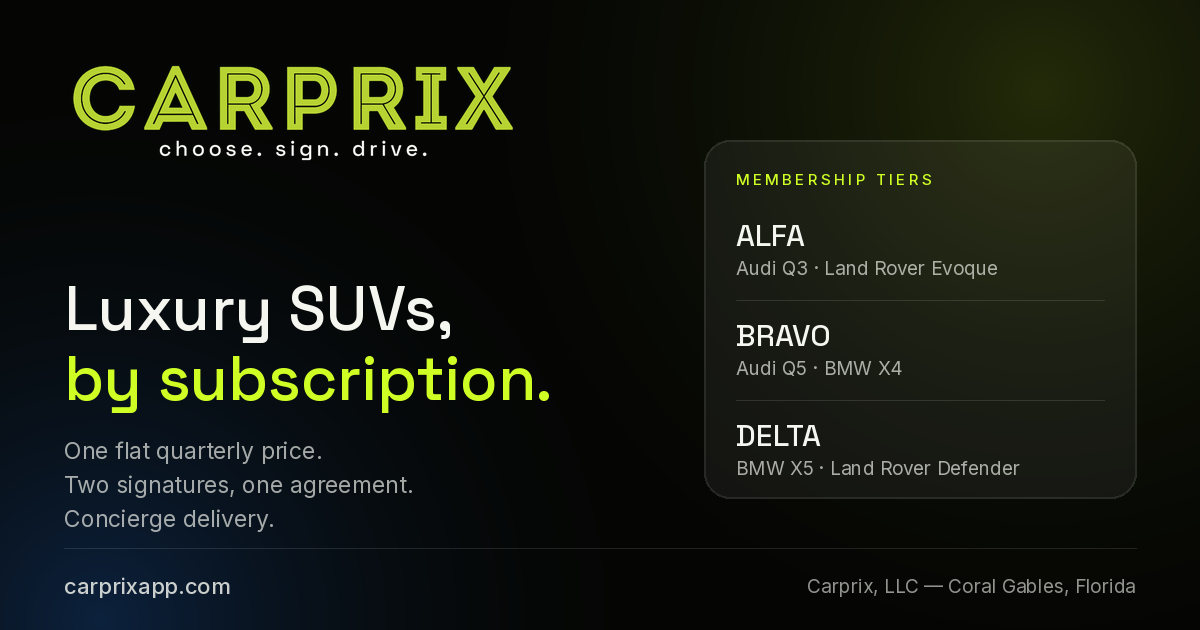
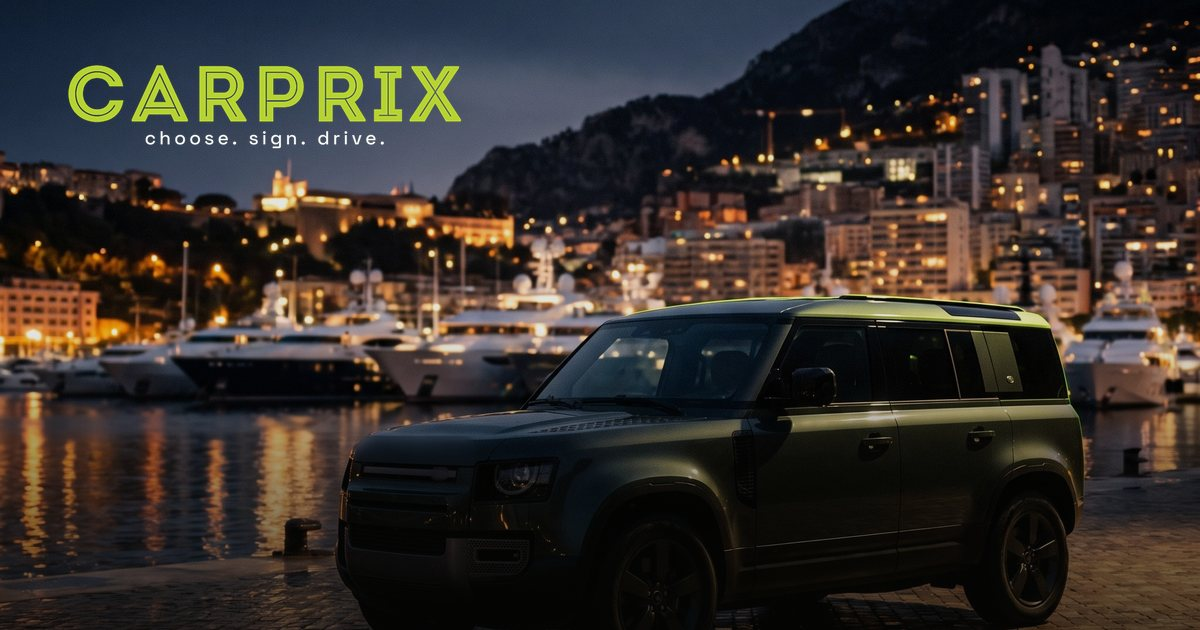
D20 cutover: custom domain carprix.vip (CNAME); D21: hero + fleet renderings (Monaco), new OG image

diff --git a/index.html b/index.html
@@ -16,7 +16,7 @@
 <meta property="og:image" content="https://carprix.vip/assets/og-image.jpg">
 <meta property="og:image:width" content="1200">
 <meta property="og:image:height" content="630">
-<meta property="og:image:alt" content="CARPRIX — choose. sign. drive. Luxury SUVs, by subscription. Tiers ALFA, BRAVO and DELTA.">
+<meta property="og:image:alt" content="CARPRIX — choose. sign. drive. A tier DELTA SUV on the quay of Port Hercule, Monaco, at dusk (representative rendering).">
 <meta name="twitter:card" content="summary_large_image">
 <meta name="twitter:title" content="Carprix — Luxury SUVs, by subscription">
 <meta name="twitter:description" content="Quarterly membership in three tiers. One flat price in USD, vehicles sourced globally, two signatures, one agreement. choose. sign. drive.">
@@ -102,9 +102,9 @@
       <p class="hero-note"><svg fill="none" viewBox="0 0 24 24" stroke="currentColor" stroke-width="2.4" stroke-linecap="round" stroke-linejoin="round" aria-hidden="true"><circle cx="12" cy="12" r="10" stroke-opacity=".35"/><path d="m8.5 12.2 2.4 2.4 4.8-5.2"/></svg><span>From USD 12,000 per quarter · minimum three quarterly payments · renews quarterly · a co-responsible party (co-signer) is required</span></p>
     </div>
     <div class="hero-visual">
-      <!-- TODO photo: hero SUV (tier DELTA — Defender 110 or BMW X5), 3/4 front, dark background, lime rim light,
-           WebP ≤200 KB with width/height + fetchpriority="high". Typographic placeholder until vehicle photography exists. -->
-      <div class="ph hero-card" role="img" aria-label="choose. sign. drive. — the three steps of a Carprix membership">
+      <!-- Hero rendering (D21, 2026-09-03): tier DELTA vehicle at Port Hercule, Monaco — WebP 1400×1120 (118 KB) + 900w. -->
+      <div class="ph hero-card has-photo">
+        <img class="ph__img" src="/assets/photos/hero-defender-1400.webp" srcset="/assets/photos/hero-defender-900.webp 900w, /assets/photos/hero-defender-1400.webp 1400w" sizes="(min-width: 1024px) 46vw, 100vw" width="1400" height="1120" alt="Land Rover Defender 110 (tier DELTA) on the quay of Port Hercule, Monaco, at dusk — representative rendering" fetchpriority="high" decoding="async">
         <div class="hero-card__words" aria-hidden="true"><span>choose.</span><span>sign.</span><span>drive.</span></div>
         <div class="hero-card__meta" aria-hidden="true">
           <div class="chip">
@@ -231,15 +231,16 @@
       <p>Carprix is a platform. Every vehicle in the program is supplied by an owner in our global network and made available to you under a single agreement — with Carprix only. Availability and demand decide where a vehicle comes from and where you drive it; the handover meeting point is confirmed when you sign. The specific vehicle, model year and specification are confirmed before delivery and recorded in the handover report.</p>
     </div>
     <ul class="fleet__grid" role="list">
-      <!-- TODO photo: each tile becomes a WebP ≤80 KB (loading="lazy", width/height). Until then, typographic placeholders. -->
-      <li class="ph car reveal"><div class="car__tier">Tier ALFA</div><div class="car__name">Audi Q3</div></li>
-      <li class="ph car reveal"><div class="car__tier">Tier ALFA</div><div class="car__name">Land Rover Evoque</div></li>
-      <li class="ph car reveal"><div class="car__tier">Tier BRAVO</div><div class="car__name">Audi Q5</div></li>
-      <li class="ph car reveal"><div class="car__tier">Tier BRAVO</div><div class="car__name">BMW X4</div></li>
+      <!-- Tiles: representative renderings of each model in a Monaco setting (D21), WebP 880×550 ≤ 52 KB, lazy. The BMW X5
+           tile keeps the typographic placeholder until its rendering is produced. -->
+      <li class="ph car reveal has-photo"><img class="ph__img" src="/assets/photos/tile-alfa-q3.webp" width="880" height="550" alt="Audi Q3 on the Avenue Princesse Grace seafront, Monaco — representative rendering" loading="lazy" decoding="async"><div class="car__tier">Tier ALFA</div><div class="car__name">Audi Q3</div></li>
+      <li class="ph car reveal has-photo"><img class="ph__img" src="/assets/photos/tile-alfa-evoque.webp" width="880" height="550" alt="Land Rover Evoque in front of the Casino de Monte-Carlo gardens — representative rendering" loading="lazy" decoding="async"><div class="car__tier">Tier ALFA</div><div class="car__name">Land Rover Evoque</div></li>
+      <li class="ph car reveal has-photo"><img class="ph__img" src="/assets/photos/tile-bravo-q5.webp" width="880" height="550" alt="Audi Q5 on the Moyenne Corniche above Monaco at sunset — representative rendering" loading="lazy" decoding="async"><div class="car__tier">Tier BRAVO</div><div class="car__name">Audi Q5</div></li>
+      <li class="ph car reveal has-photo"><img class="ph__img" src="/assets/photos/tile-bravo-x4.webp" width="880" height="550" alt="BMW X4 at the Fairmont hairpin tunnel, Monaco, at night — representative rendering" loading="lazy" decoding="async"><div class="car__tier">Tier BRAVO</div><div class="car__name">BMW X4</div></li>
       <li class="ph car reveal"><div class="car__tier">Tier DELTA</div><div class="car__name">BMW X5</div></li>
-      <li class="ph car reveal"><div class="car__tier">Tier DELTA</div><div class="car__name">Land Rover Defender</div></li>
+      <li class="ph car reveal has-photo"><img class="ph__img" src="/assets/photos/tile-delta-defender.webp" width="880" height="550" alt="Land Rover Defender 110 on the quay of Port Hercule, Monaco — representative rendering" loading="lazy" decoding="async"><div class="car__tier">Tier DELTA</div><div class="car__name">Land Rover Defender</div></li>
     </ul>
-    <p class="fleet__note">Models are representative of each tier; Carprix may substitute an equivalent vehicle of the same tier. Manufacturer names are used only to identify the vehicles offered; Carprix is not affiliated with any manufacturer.</p>
+    <p class="fleet__note">Models are representative of each tier; Carprix may substitute an equivalent vehicle of the same tier. Vehicle images are representative renderings, not photographs of a specific vehicle — the actual vehicle, model year and specification are confirmed before delivery. Manufacturer names are used only to identify the vehicles offered; Carprix is not affiliated with any manufacturer.</p>
   </div>
 </section>
 

diff --git a/css/carprix.css b/css/carprix.css
@@ -170,16 +170,31 @@ h1 em, h2 em { font-style: normal; color: var(--lime); }
   box-shadow: 0 30px 70px rgba(0, 0, 0, .55);
 }
 .ph::after {
-  content: ""; position: absolute; inset: 0; pointer-events: none;
+  content: ""; position: absolute; inset: 0; pointer-events: none; z-index: 1;
   background: linear-gradient(180deg, transparent 55%, rgba(5, 6, 4, .75));
 }
+/* Photo behind a .ph placeholder (D21 — AI renderings of each tier's vehicles in a Monaco setting): the image sits under
+   the gradients (::before/::after, z 1) and the captions/chips (z 2). */
+.ph__img { position: absolute; inset: 0; width: 100%; height: 100%; object-fit: cover; z-index: 0; display: block; }
+.ph.has-photo::before {
+  content: ""; position: absolute; inset: 0; pointer-events: none; z-index: 1;
+  background: linear-gradient(180deg, rgba(5, 6, 4, .62), rgba(5, 6, 4, .12) 48%, transparent 70%);
+}
+.ph.has-photo::after { background: linear-gradient(180deg, transparent 45%, rgba(5, 6, 4, .82)); }
+.ph.has-photo > :not(.ph__img) { position: relative; z-index: 2; }
+/* Hero with the rendering: smaller motto, a single compact chip so the vehicle stays visible. */
+.hero-card.has-photo .hero-card__words { font-size: clamp(30px, 3.6vw, 48px); }
+.hero-card.has-photo .hero-card__meta { justify-content: flex-start; }
+.hero-card.has-photo .chip:nth-child(2) { display: none; }
+.hero-card.has-photo .chip { padding: 10px 14px; }
+.hero-card.has-photo .chip .v { font-size: 15px; }
 .hero-visual { position: relative; }
 .hero-card { min-height: 380px; padding: clamp(24px, 4vw, 40px); display: flex; flex-direction: column; justify-content: space-between; gap: 28px; }
-.hero-card__words { font-family: var(--font-display); font-weight: 500; font-size: clamp(34px, 5vw, 62px); line-height: 1.02; letter-spacing: -.02em; }
+.hero-card__words { position: relative; z-index: 2; text-shadow: 0 2px 24px rgba(0, 0, 0, .55); font-family: var(--font-display); font-weight: 500; font-size: clamp(34px, 5vw, 62px); line-height: 1.02; letter-spacing: -.02em; }
 .hero-card__words span { display: block; color: var(--muted); }
 .hero-card__words span:first-child { color: var(--text); }
 .hero-card__words span:last-child { color: var(--lime); }
-.hero-card__meta { position: relative; z-index: 1; display: flex; flex-wrap: wrap; gap: 10px; align-items: center; justify-content: space-between; }
+.hero-card__meta { position: relative; z-index: 2; display: flex; flex-wrap: wrap; gap: 10px; align-items: center; justify-content: space-between; }
 .chip {
   display: inline-flex; flex-direction: column; gap: 2px;
   background: rgba(10, 12, 7, .82); -webkit-backdrop-filter: blur(10px); backdrop-filter: blur(10px);
@@ -254,8 +269,8 @@ h2 { font-size: clamp(30px, 3.6vw, 48px); font-weight: 700; }
 /* Fleet */
 .fleet__grid { display: grid; gap: 16px; grid-template-columns: 1fr; }
 .car { min-height: 220px; padding: 22px; display: flex; flex-direction: column; justify-content: flex-end; }
-.car__tier { position: relative; z-index: 1; font-family: var(--font-display); font-size: 12px; letter-spacing: .22em; color: var(--lime); }
-.car__name { position: relative; z-index: 1; font-family: var(--font-display); font-weight: 600; font-size: 22px; margin-top: 6px; }
+.car__tier { position: relative; z-index: 2; font-family: var(--font-display); font-size: 12px; letter-spacing: .22em; color: var(--lime); }
+.car__name { position: relative; z-index: 2; font-family: var(--font-display); font-weight: 600; font-size: 22px; margin-top: 6px; }
 .fleet__note { margin-top: 20px; font-size: 13.5px; color: var(--muted); }
 
 /* Co-responsible party (co-signer) */
